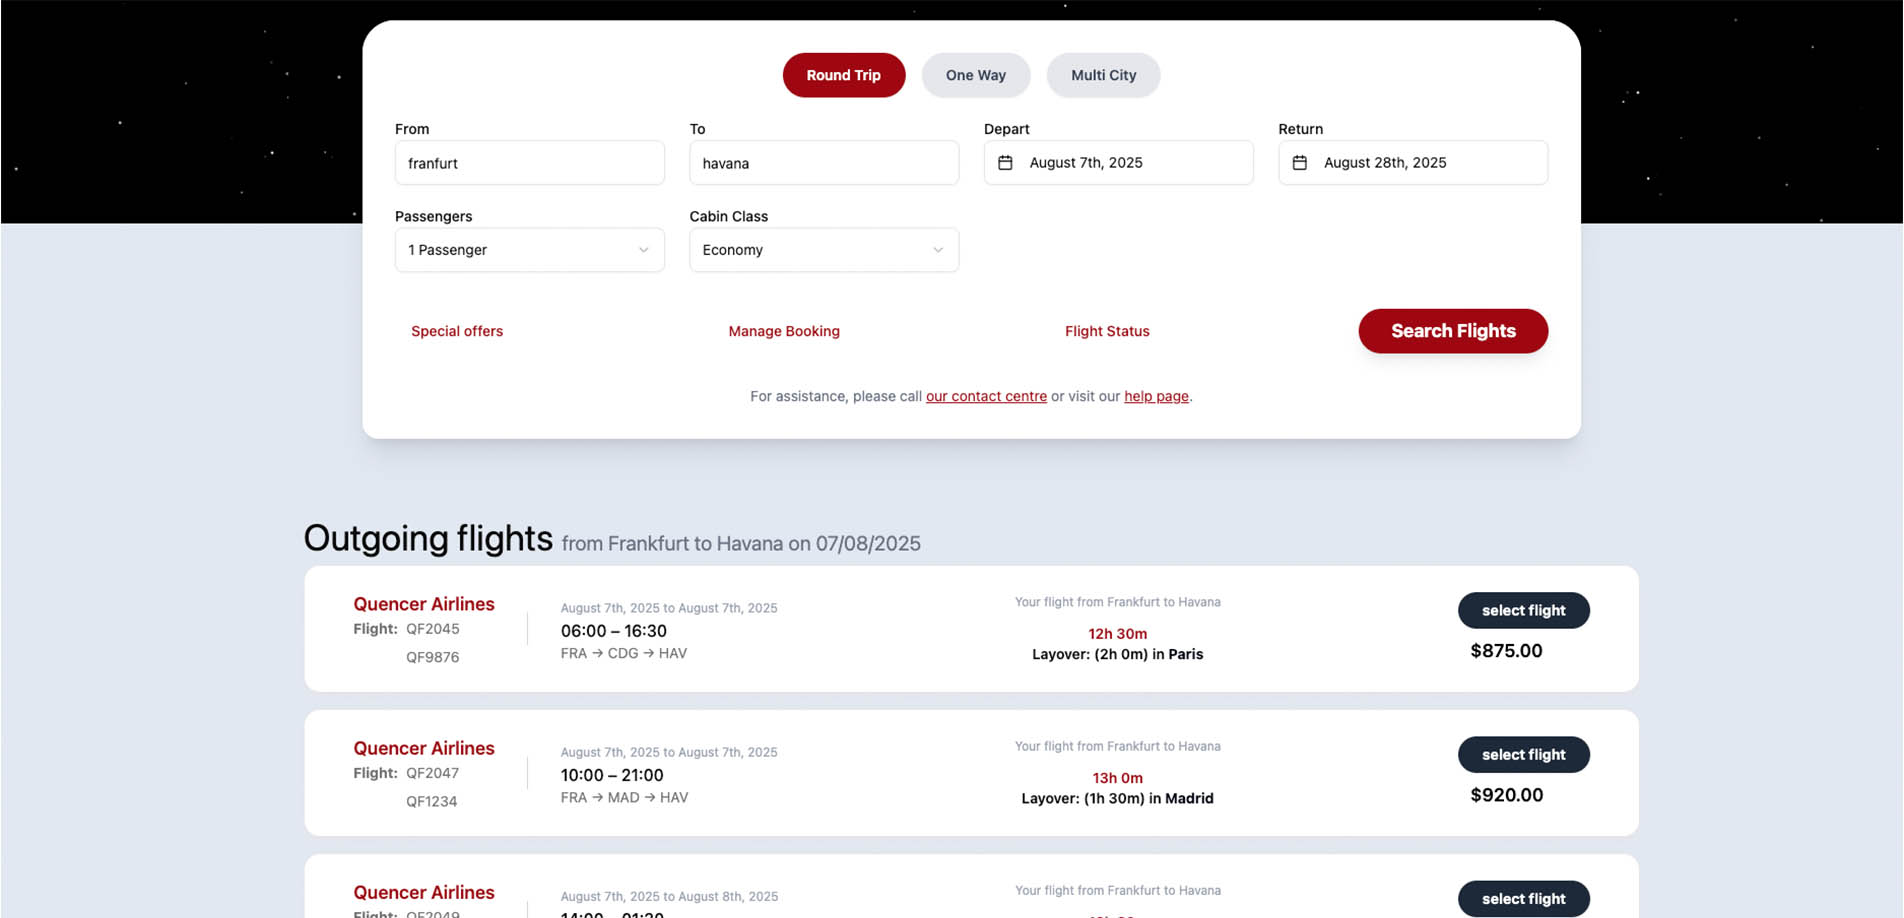
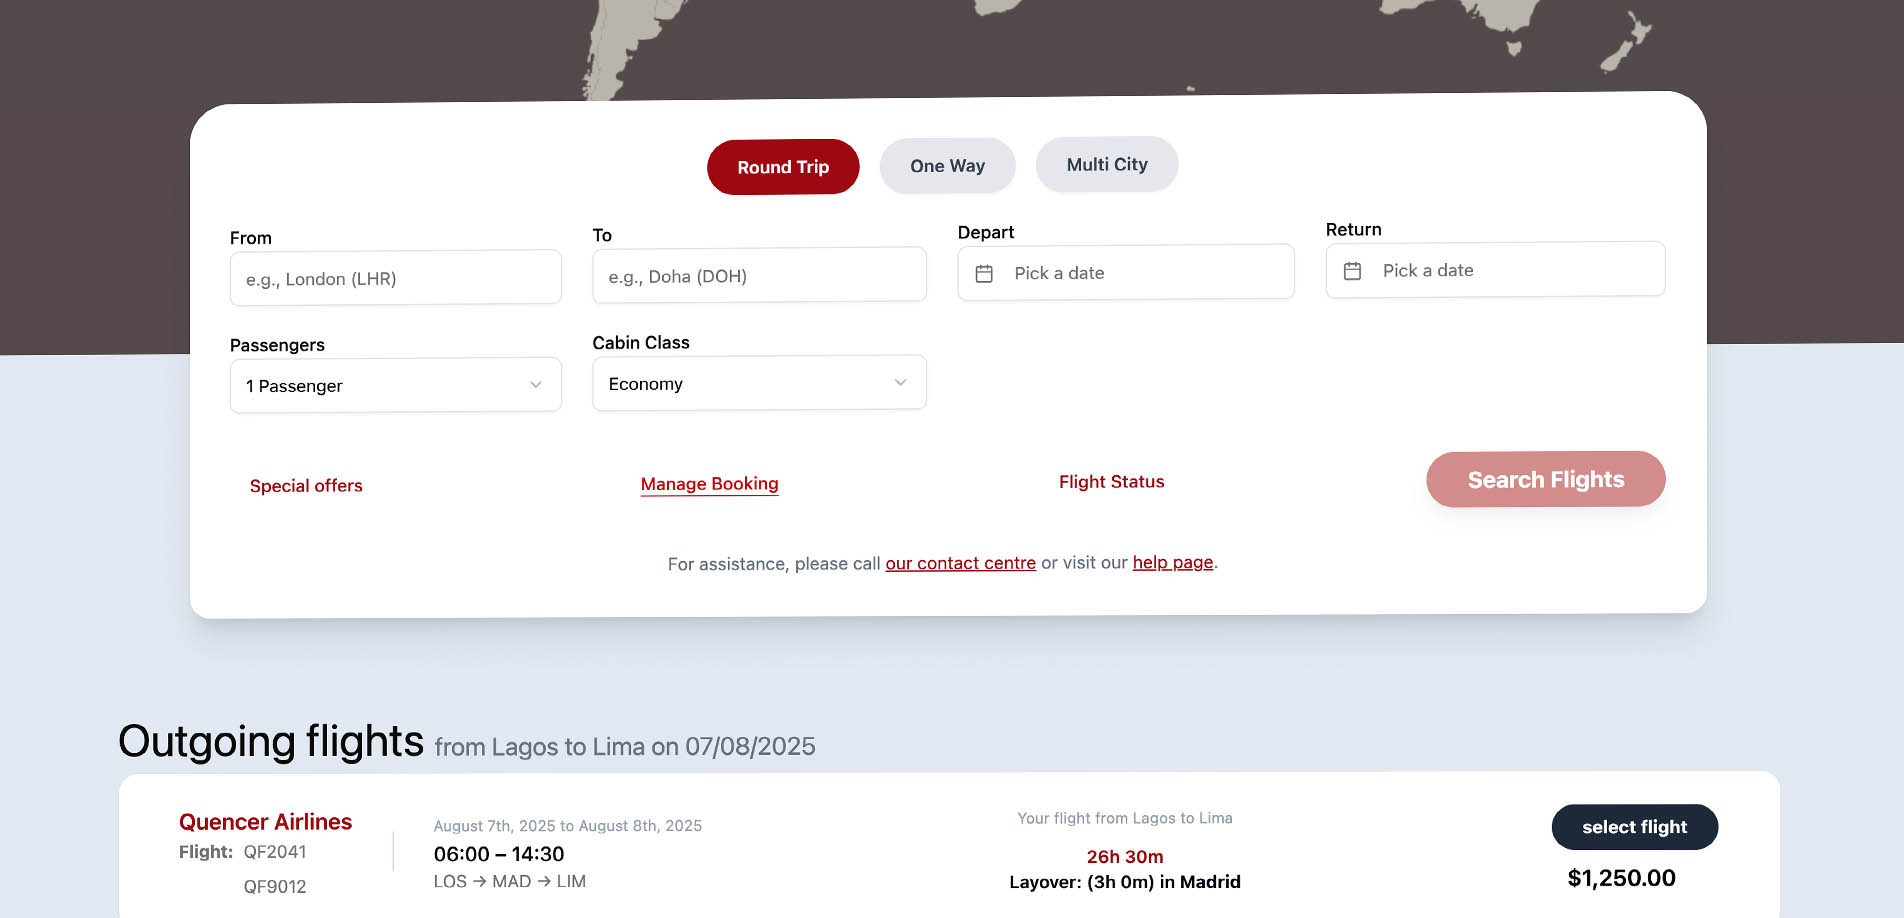
update the Readme.md

diff --git a/readme.md b/readme.md
@@ -55,11 +55,10 @@ Follow these steps to set up and run both the frontend and backend components of
 
 # Backend .env variables
 
-- **PORT=5000 #** Or any desired port for the backend API
-
+- **PORT=3000 #** Or any desired port for the backend API -**GOOGLE_GENERATIVE_AI_API_KEY** Your Google Generative AI API Key
 - **EMAIL_HOST=** smtp.your-email-provider.com
 - **EMAIL_PORT=** 587 # or 465 for SSL/TLS
-- **EMAIL_SECUR** E=false # true for 465, false for 587 (TLS requires STARTTLS)
+- **EMAIL_SECURE** E=false # true for 465, false for 587 (TLS requires STARTTLS)
 - **EMAIL_USER=** your_email@example.com
 - **EMAIL_PASS=** your_email_password
 
